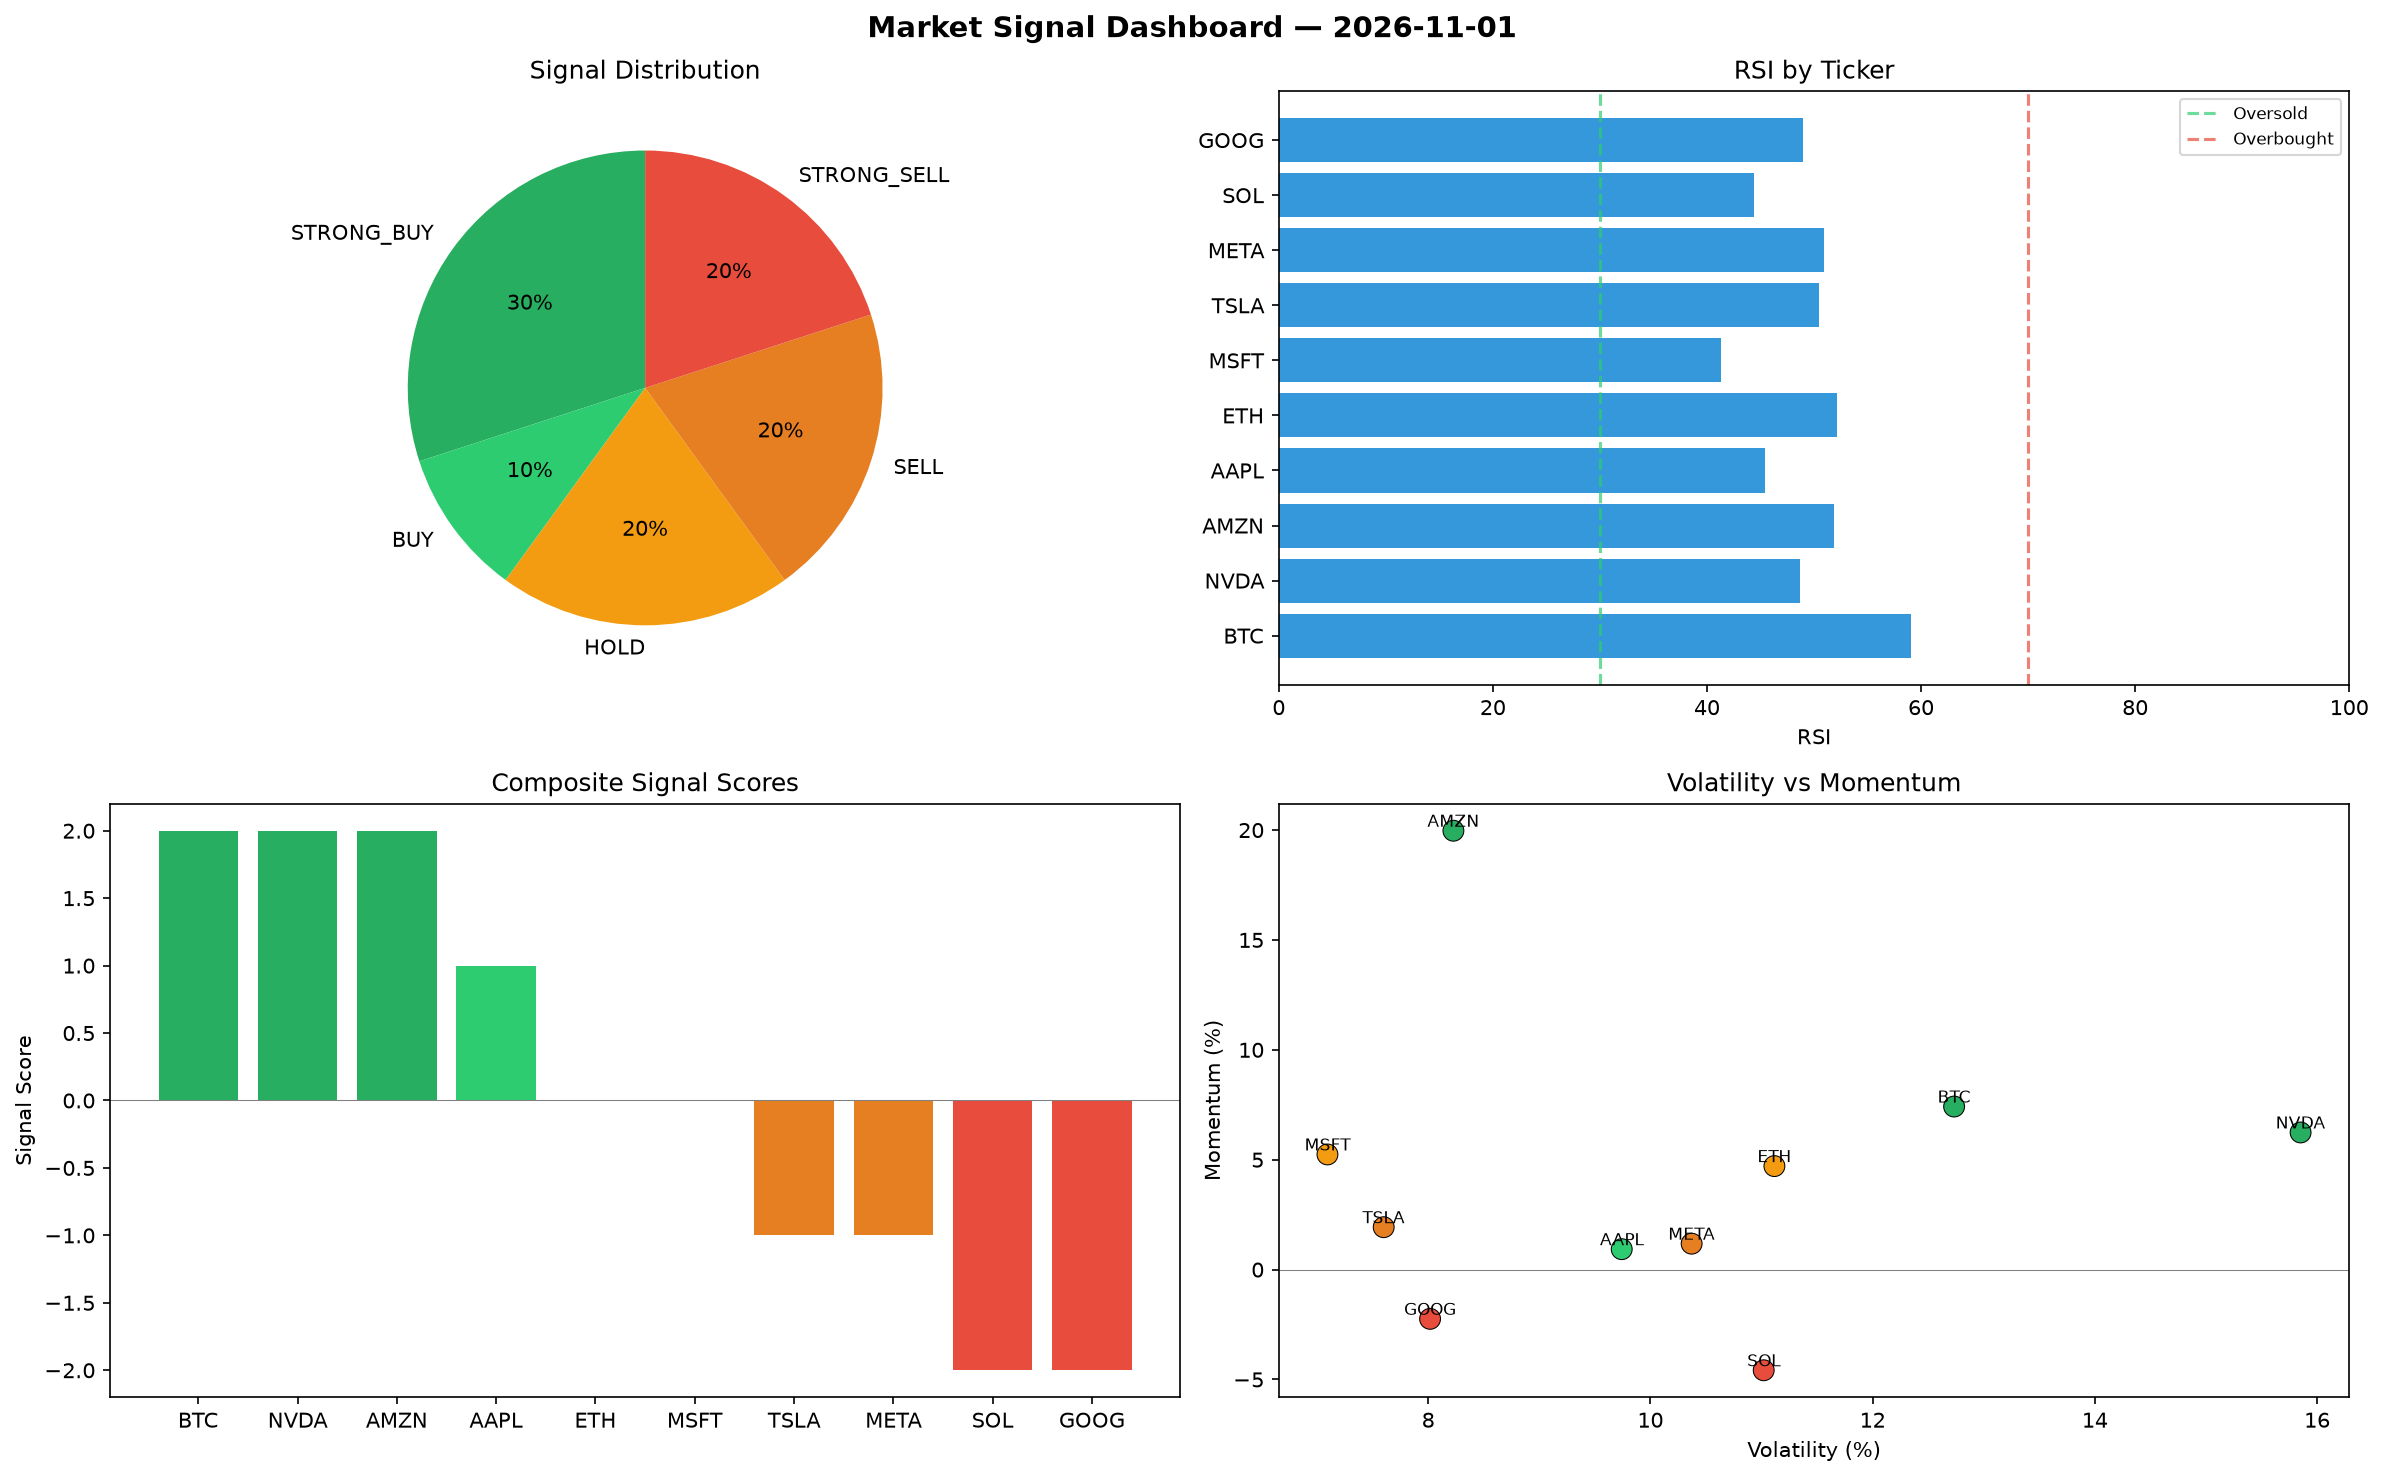
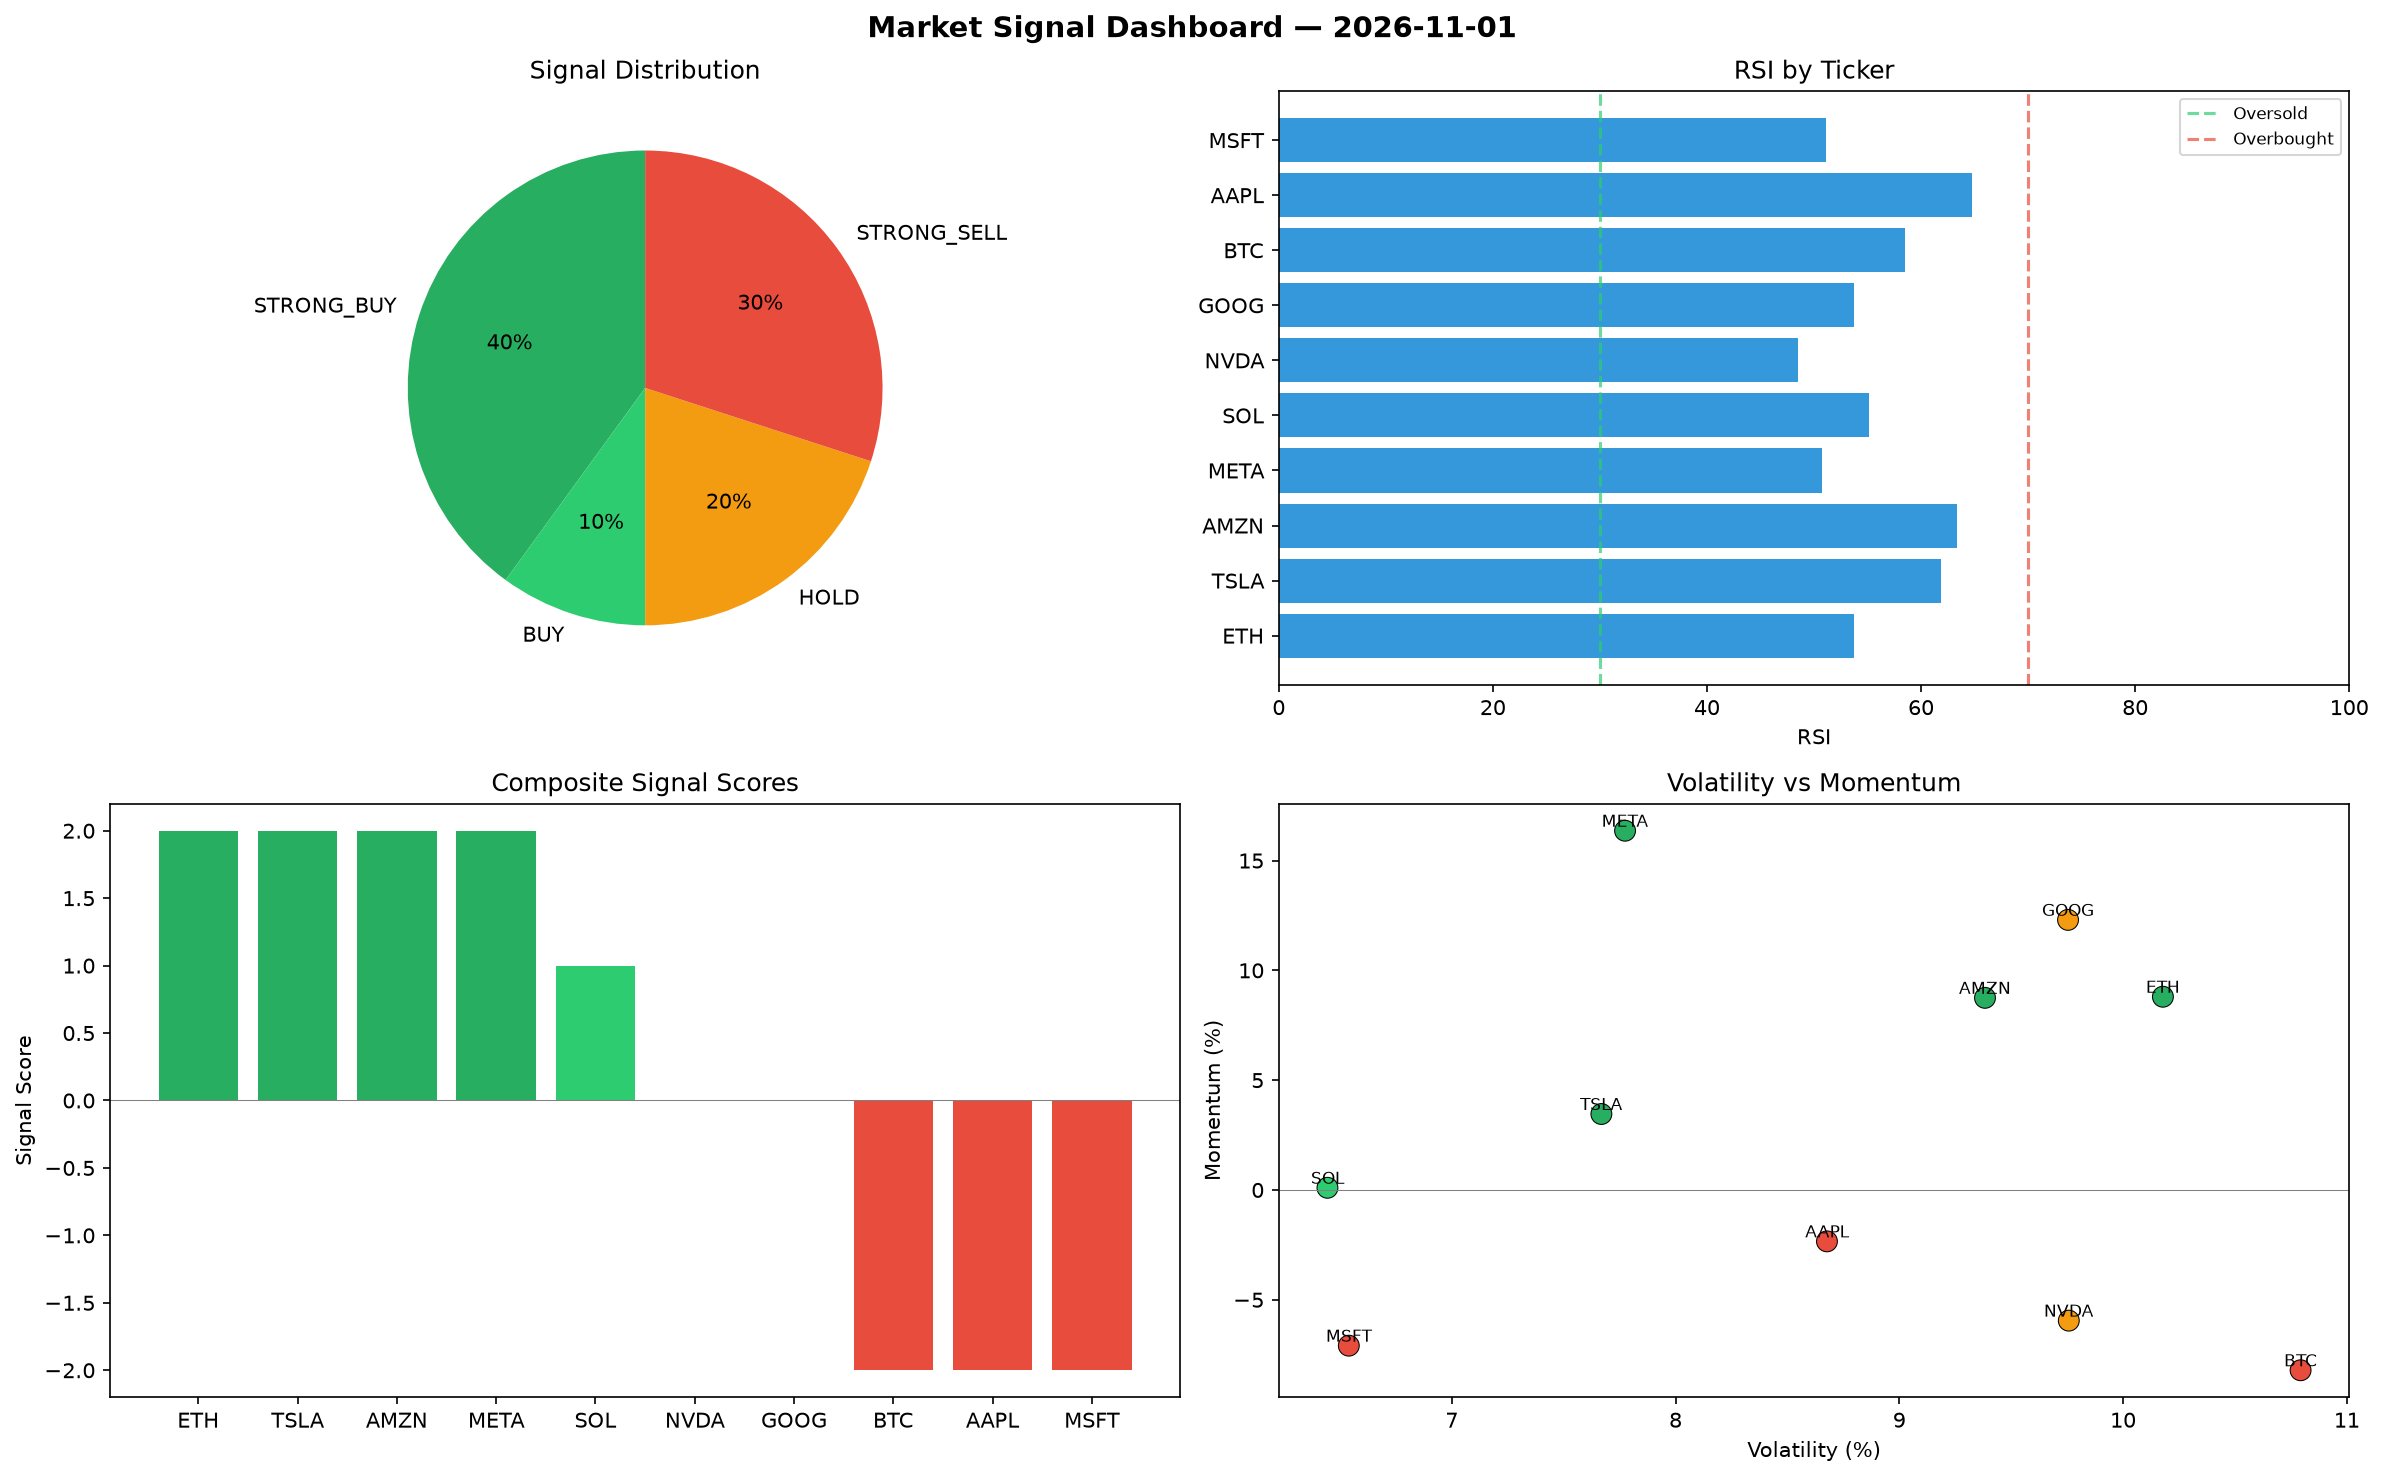
automated-bots: market signals 2026-11-01T15:21

diff --git a/logs/2026-11-01.md b/logs/2026-11-01.md
@@ -1,6 +1,6 @@
 # Market Signal Report — 2026-11-01
 
-**Run ID:** `733da623c4` | **Buy:** 4 | **Sell:** 4 | **Hold:** 2
+**Run ID:** `e9f34db015` | **Buy:** 5 | **Sell:** 3 | **Hold:** 2
 
 ![Dashboard](2026-11-01_dashboard.png)
 
@@ -8,28 +8,28 @@
 
 | Ticker | Price | Signal | Score | RSI | Momentum | Confidence |
 |--------|-------|--------|-------|-----|----------|------------|
-| BTC | $645.21 | **STRONG_BUY** | 2 | 59.1 | 0.0742 | 0.5 |
-| NVDA | $188.13 | **STRONG_BUY** | 2 | 48.65 | 0.0624 | 0.5 |
-| AMZN | $2043.41 | **STRONG_BUY** | 2 | 51.82 | 0.1997 | 0.5 |
-| AAPL | $1378.69 | **BUY** | 1 | 45.46 | 0.0093 | 0.25 |
-| ETH | $2375.22 | **HOLD** | 0 | 52.11 | 0.0471 | 0.0 |
-| MSFT | $130.03 | **HOLD** | 0 | 41.29 | 0.0524 | 0.0 |
-| TSLA | $4041.29 | **SELL** | -1 | 50.49 | 0.0193 | 0.25 |
-| META | $3677.64 | **SELL** | -1 | 50.92 | 0.0118 | 0.25 |
-| SOL | $3213.79 | **STRONG_SELL** | -2 | 44.42 | -0.0458 | 0.5 |
-| GOOG | $4343.19 | **STRONG_SELL** | -2 | 48.99 | -0.0224 | 0.5 |
+| ETH | $639.61 | **STRONG_BUY** | 2 | 53.78 | 0.088 | 0.5 |
+| TSLA | $3831.61 | **STRONG_BUY** | 2 | 61.86 | 0.0346 | 0.5 |
+| AMZN | $2968.82 | **STRONG_BUY** | 2 | 63.31 | 0.0875 | 0.5 |
+| META | $4873.66 | **STRONG_BUY** | 2 | 50.77 | 0.1636 | 0.5 |
+| SOL | $891.62 | **BUY** | 1 | 55.09 | 0.001 | 0.25 |
+| NVDA | $3510.76 | **HOLD** | 0 | 48.46 | -0.0595 | 0.0 |
+| GOOG | $4213.33 | **HOLD** | 0 | 53.73 | 0.123 | 0.0 |
+| BTC | $2273.57 | **STRONG_SELL** | -2 | 58.53 | -0.0821 | 0.5 |
+| AAPL | $304.86 | **STRONG_SELL** | -2 | 64.78 | -0.0234 | 0.5 |
+| MSFT | $2381.73 | **STRONG_SELL** | -2 | 51.15 | -0.0709 | 0.5 |
 
 ## Delta vs Yesterday
 
 | Ticker | Today | Yesterday | Price Change | Signal Changed |
 |--------|-------|-----------|-------------|----------------|
-| BTC | STRONG_BUY | STRONG_BUY | 📈 42.18% | — |
-| NVDA | STRONG_BUY | STRONG_SELL | 📉 -58.93% | ⚠ YES |
-| AMZN | STRONG_BUY | STRONG_BUY | 📈 17.59% | — |
-| AAPL | BUY | SELL | 📉 -67.84% | ⚠ YES |
-| ETH | HOLD | STRONG_SELL | 📉 -0.66% | ⚠ YES |
-| MSFT | HOLD | STRONG_SELL | 📉 -41.77% | ⚠ YES |
-| TSLA | SELL | HOLD | 📈 492.3% | ⚠ YES |
-| META | SELL | STRONG_SELL | 📈 183.54% | ⚠ YES |
-| SOL | STRONG_SELL | STRONG_BUY | 📈 144.85% | ⚠ YES |
-| GOOG | STRONG_SELL | STRONG_SELL | 📈 206.31% | — |
+| ETH | STRONG_BUY | STRONG_SELL | 📉 -73.25% | ⚠ YES |
+| TSLA | STRONG_BUY | HOLD | 📈 461.56% | ⚠ YES |
+| AMZN | STRONG_BUY | STRONG_BUY | 📈 70.84% | — |
+| META | STRONG_BUY | STRONG_SELL | 📈 275.76% | ⚠ YES |
+| SOL | BUY | STRONG_BUY | 📉 -32.07% | ⚠ YES |
+| NVDA | HOLD | STRONG_SELL | 📈 666.51% | ⚠ YES |
+| GOOG | HOLD | STRONG_SELL | 📈 197.15% | ⚠ YES |
+| BTC | STRONG_SELL | STRONG_BUY | 📈 401.0% | ⚠ YES |
+| AAPL | STRONG_SELL | SELL | 📉 -92.89% | ⚠ YES |
+| MSFT | STRONG_SELL | STRONG_SELL | 📈 966.56% | — |
